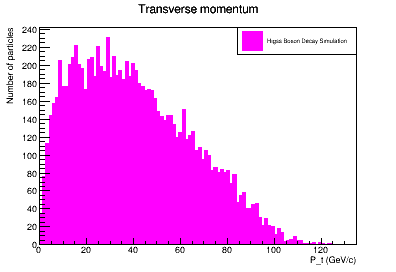
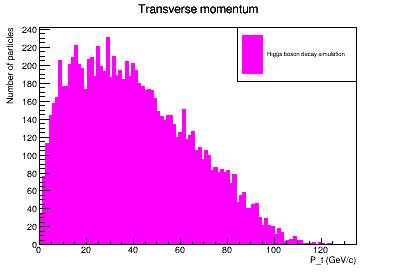
Zad 3: Uredivanje legende

Changed region(s): [[0.6061, 0.1471, 0.8788, 0.3235], [0.6061, 0.0882, 0.6667, 0.1471]]

diff --git a/Vjezbe_5/Analyzer.cpp b/Vjezbe_5/Analyzer.cpp
@@ -23,9 +23,9 @@ void Analyzer::PlotHistogram()
     h->SetTitle("Transverse momentum");
 
     //Create legend
-    TLegend* leg = new TLegend(0.6, 0.8, 0.9, 0.9); // constructor takes coord of lower left and upper right corners
+    TLegend* leg = new TLegend(0.6, 0.7, 0.9, 0.9); // constructor takes coord of lower left and upper right corners
     //leg->SetHeader("");
-    leg->AddEntry(h, "Higss Boson Decay Simulation", "f");
+    leg->AddEntry(h, "Higgs boson decay simulation", "f");
     leg->Draw();
 
     c.Print("H_TransP_1.png");
